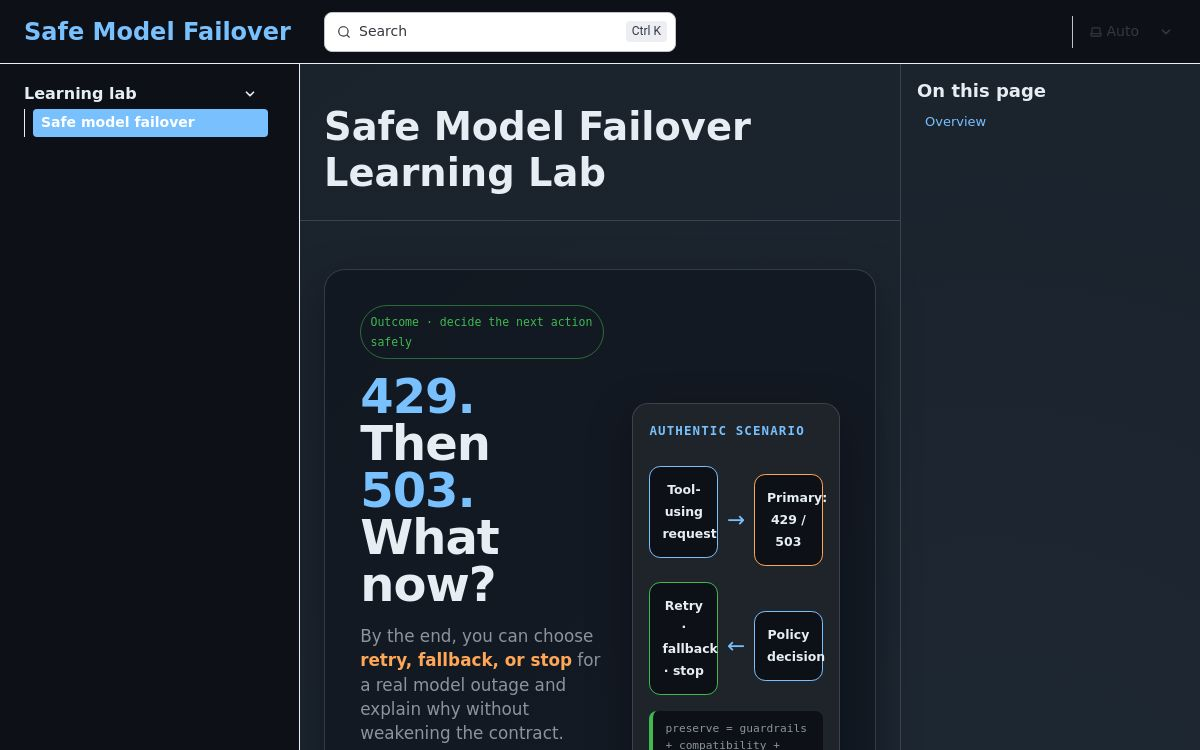
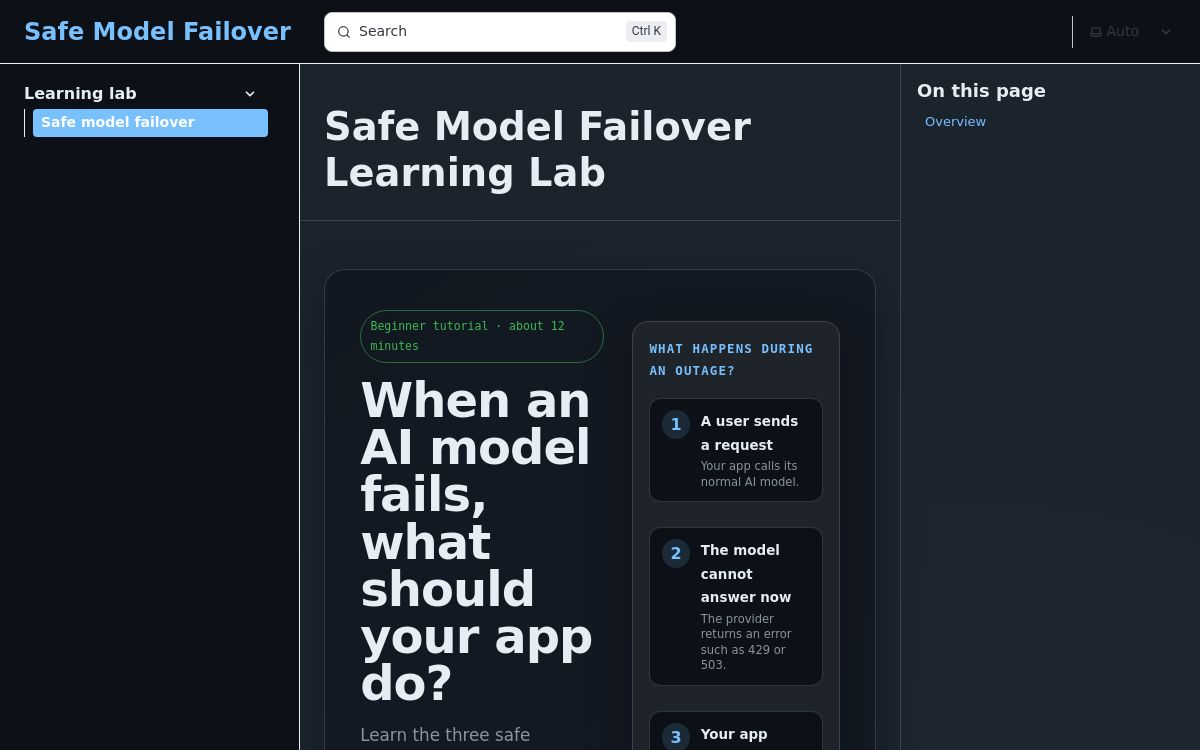
Refresh failover lab tutorial portfolio entry

Changed region(s): [[0.2775, 0.3987, 0.4933, 1.0], [0.5242, 0.552, 0.7092, 1.0], [0.5242, 0.46, 0.6783, 0.5213]]

diff --git a/content/projects/safe-model-failover-learning-lab.md b/content/projects/safe-model-failover-learning-lab.md
@@ -1,6 +1,6 @@
 ---
 title: "Safe Model Failover Learning Lab"
-description: "An interactive reliability lab for bounded retries, policy-safe fallback, circuit breaking, and fail-closed model routing."
+description: "A beginner-friendly tutorial for retrying, switching to an approved backup, or stopping safely when an AI model fails."
 role: "Creator and release owner"
 year: 2026
 weight: 15
@@ -12,7 +12,7 @@ tags:
   - safety controls
 demoURL: "https://model-failover-learning-lab.andreas-nissen.chatgpt.site"
 image: "/images/projects/model-failover-learning-lab.jpg"
-imageAlt: "Safe Model Failover Learning Lab showing a 429 and 503 incident scenario with retry, fallback, and stop decisions."
+imageAlt: "Safe Model Failover Learning Lab introducing what an application should do when an AI model fails."
 socialImage: "/images/social/safe-model-failover.png"
 socialImageAlt: "Safe Model Failover Learning Lab, an interactive reliability lab by Andreas Nissen."
 relatedArticleURL: "/writing/context-and-control/"
@@ -27,14 +27,16 @@ For tool-using agents, retrying is more consequential still. A tool may already 
 
 ## What I built
 
-The Safe Model Failover Learning Lab is a browser-local, retrieval-first exercise for choosing exactly one terminal action: retry, use an approved fallback, or stop. Learners classify realistic failures, spend bounded attempt and elapsed-time budgets, step through a closed, open, and half-open circuit breaker, and resolve a mixed 503 and 429 incident.
+The Safe Model Failover Learning Lab is a browser-local tutorial for choosing exactly one action: wait and retry, use an approved backup, or stop safely. It now teaches the decision in plain language before asking learners to practise it. A simple request, failure, and decision walkthrough leads into a glossary, a guided incident, short exercises, and an optional knowledge check.
+
+The tutorial compares provider-managed capacity and model-routing features across AWS, Google Cloud, Microsoft Azure, OCI, and IBM Cloud. It makes the ownership boundary explicit: managed routing may reduce failures, but the application still owns its retry budget, backup approvals, tool state, and recovery of dependent services.
 
 The deterministic policy honors provider delay signals such as `Retry-After`. A fallback is allowed only when its model, Region, and tools are allow-listed and its safety controls, output schema, capability, and data boundary remain compatible. State-changing tool work blocks retry and fallback unless idempotency protection is explicit.
 
 ## What it demonstrates
 
 - A retry must fit the provider delay, attempt limit, and end-to-end latency budget.
-- Cross-Region inference distributes capacity; it is not a substitute for an application recovery plan.
+- Provider capacity routing can improve availability; it is not a substitute for an application recovery plan.
 - A circuit breaker protects dependencies and reopens through a controlled half-open probe.
 - Availability never expands the approved safety, schema, residency, or tool boundary.
 - Every routing decision should record its classification, budgets, circuit state, approvals, action, and reason.
@@ -43,6 +45,6 @@ The deterministic policy honors provider delay signals such as `Retry-After`. A 
 
 The current version passes 50 deterministic policy and evidence-store tests plus its production build. The lab contains no credentials, analytics, backend calls, remote fonts, or model-provider calls. Learning evidence stays in browser storage and can be exported or reset.
 
-The August 2026 quality upgrade was grounded in a 30-source Exa review across three workstreams. The final content prioritizes current primary guidance from Amazon Bedrock, Google Cloud Vertex AI, and Microsoft Foundry, with the linked sources available inside the lab.
+The August 2026 tutorial upgrade reviewed 60 Exa search results across eight provider-focused searches, then validated the final guidance against ten current first-party documentation pages from AWS, Google Cloud, Microsoft Azure, OCI, and IBM Cloud. The linked sources are available inside the lab.
 
-This is an independent learning and portfolio project, not a production router, availability benchmark, or service endorsed by AWS, OpenAI, Microsoft, Google, or any model provider.
+This is a demo learning lab for understanding production model failover patterns. It is not a production router, availability benchmark, or service endorsed by AWS, OpenAI, Microsoft, Google, Oracle, IBM, or any model provider.
